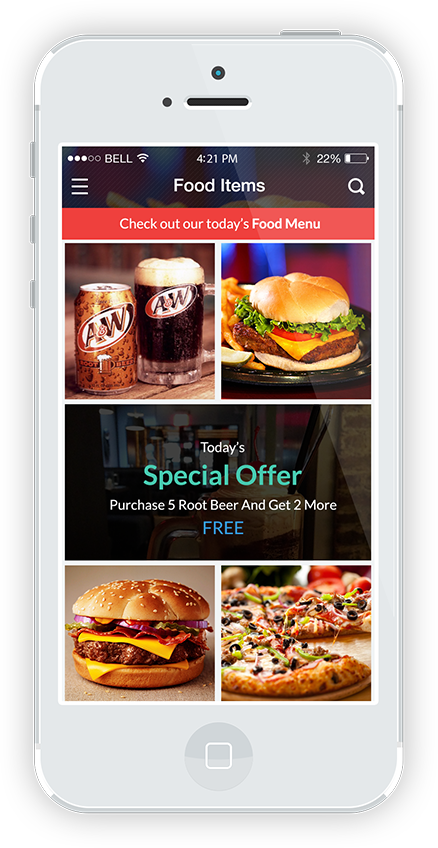
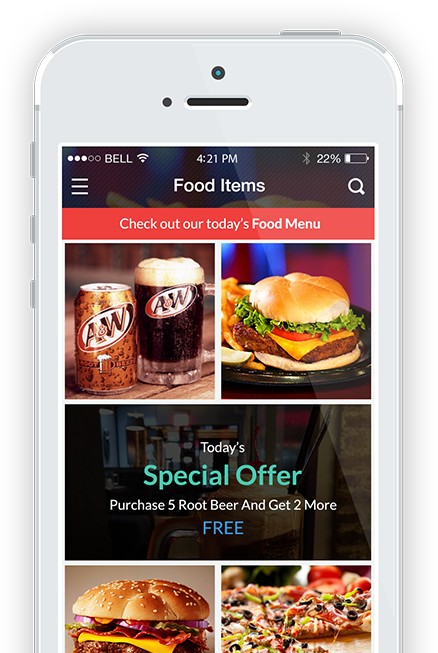
Some Changes

diff --git a/styles/style.css b/styles/style.css
@@ -18,7 +18,7 @@ body {
     width: 900px;
     margin: 0 auto;
 }
-.sm_vs_logo, .logo_mn {
+.sm_vs_logo, .logo_mn, .white_phone_md   {
     display: none;
 }
 
@@ -64,11 +64,6 @@ a {
     font-family: 'Open Sans', sans-serif;
 }
 
-/*.nav_icon,{*/
-    /*cursor: pointer;*/
-
-/*}*/
-
 .burg_menu {
     display: inline-block;
     height: 30px;
@@ -81,20 +76,6 @@ a {
     background-color: #ffffff;
     margin: 4px 0;
     transition: 0.4s;
-}
-
-.change .bar1 {
-    -webkit-transform: rotate(-45deg) translate(-9px, 6px);
-    transform: rotate(-45deg) translate(-9px, 4px);
-}
-
-.change .bar2 {
-    opacity: 0;
-}
-
-.change .bar3 {
-    -webkit-transform: rotate(45deg) translate(-8px, -8px);
-    transform: rotate(45deg) translate(-8px, -5px);
 }
 
 .dropdown-nav {
@@ -129,10 +110,6 @@ ul li:hover {
     font-weight: 600;
 }
 
-a img {
-    margin:0 -15px 0 -15px;
-}
-
 .nav_icon:hover .dropdown-nav,
 .nav_icon:focus .dropdown-nav {
     display: flex;
@@ -148,7 +125,8 @@ a img {
 }
 #search_text {
     display: none;
-    margin: -20% 0 0 -795%;
+    margin: -5px 0 0 -180px;
+    position: absolute;
     background: none;
     border: 2px solid #fff;
     color: #fff;
@@ -520,6 +498,12 @@ footer .container {
     }
     .socials img {
         width: 2.5em;
+    }
+    .md_img_none {
+        display: none;
+    }
+    .white_phone_md {
+    display: block;
     }
 }
 

diff --git a/scripts/script.js b/scripts/script.js
@@ -7,10 +7,11 @@ var prevBtn = element('prev'),
     search = element('search'),
     menu = element('menu'),
     menu_i = element('icon_m'),
-    x = element('x');
+    x = element('x'),
     size = slides.length - 1,
     count = 0;
 
+console.log(menu)
 
 search.addEventListener('mouseover', function () {
     hideMenu();
@@ -23,7 +24,7 @@ window.addEventListener('scroll', function () {
 });
 
 menu_i.addEventListener('click', showMenu);
-
+x.addEventListener("click", hideMenu);
 
 function element(id) {
     return document.getElementById(id);
@@ -43,9 +44,6 @@ function hideMenu() {
     }
 }
 
-x.addEventListener('mouseover', function() {
-    this.classList.toggle("change");
-});
 function nextSlide () {
 
     slides[count].classList.add('non_active');

diff --git a/index.html b/index.html
@@ -71,7 +71,8 @@
             </div>
 
                 <div class="left_side sm_img_none">
-                    <img src="styles/images/white_phone.png" alt="phone app example" class="white_phone">
+                    <img src="styles/images/white_phone.png" alt="phone app example" class="white_phone md_img_none">
+                    <img src="styles/images/white_phone_md.png" alt="phone app example" class="white_phone_md ">
                 </div>
             </div>
         </div>
